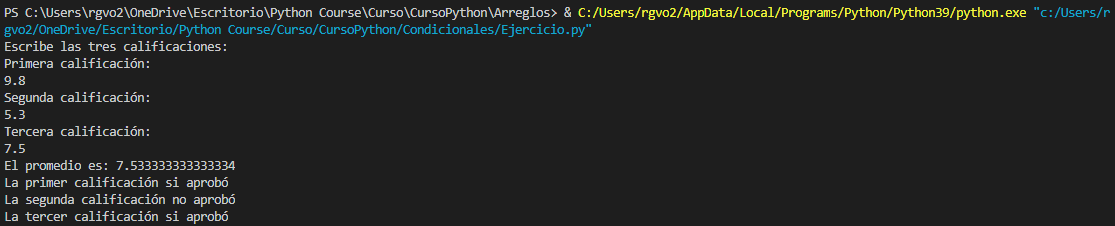
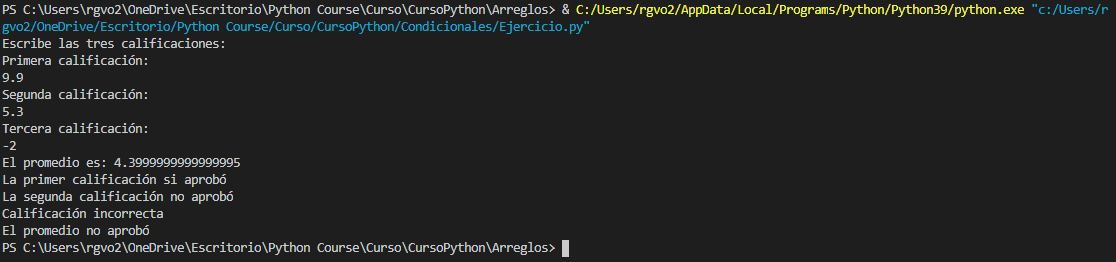
condicionales2

Changed region(s): [[0.0, 0.0, 1.0, 0.5265], [0.0, 0.5575, 0.5184, 0.9912]]

diff --git a/Condicionales/Ejercicio.py b/Condicionales/Ejercicio.py
@@ -10,15 +10,28 @@ promedio = sumacalificaciones/3
 print("El promedio es: " + str(promedio))
 if(float(c1) >= 6):
     print("La primer calificación si aprobó")
+elif(float(c1) < 0 ):
+    print("Calificación incorrecta")
 else:
     print("La primer calificación no aprobó")
     
 if(float(c2) >= 6):
     print("La segunda calificación si aprobó")
+elif(float(c2) < 0 ):
+    print("Calificación incorrecta")
 else:
     print("La segunda calificación no aprobó") 
        
 if(float(c3) >= 6):
     print("La tercer calificación si aprobó")
+elif(float(c3) < 0 ):
+    print("Calificación incorrecta")    
 else:
-    print("La tercer calificación no aprobó")    
+    print("La tercer calificación no aprobó")
+
+if(float(promedio) >= 6):
+    print("El promedio aprobó")
+elif(float(promedio) < 0 ):
+    print("Promedio incorrecto")    
+else:
+    print("El promedio no aprobó")        
